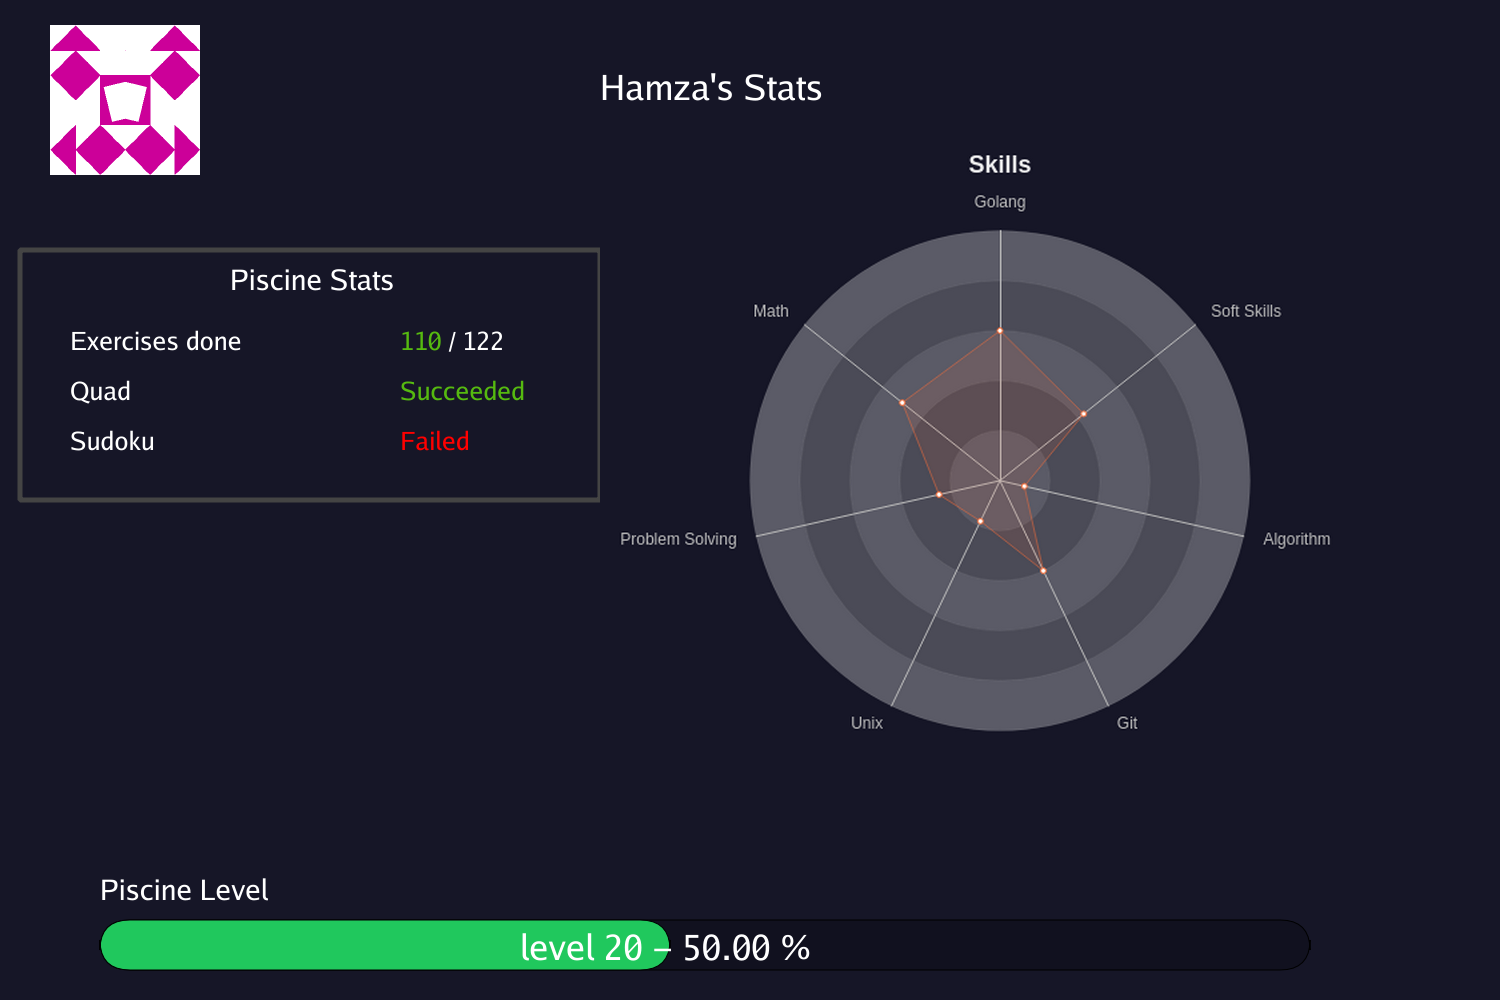
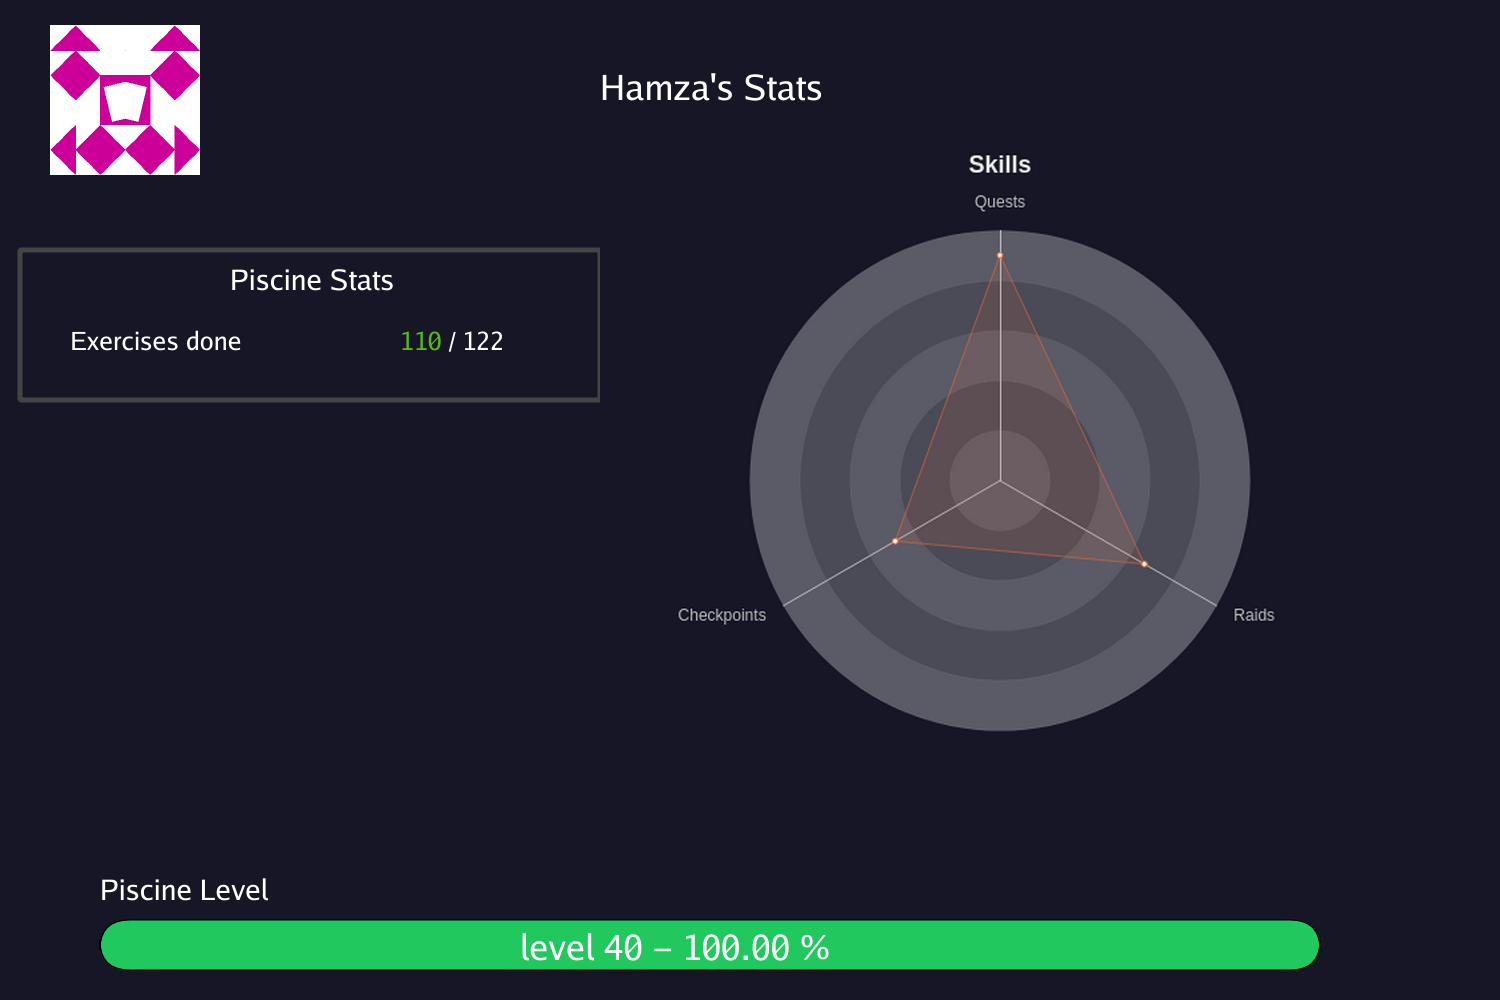
refactor: change the skills type in the piscine modele

diff --git a/builder.go b/builder.go
@@ -11,6 +11,7 @@ import (
 	"image/png"
 	"log"
 	"net/http"
+	"os"
 
 	"github.com/golang/freetype/truetype"
 	"github.com/llgcode/draw2d/draw2dimg"
@@ -145,7 +146,7 @@ func CardProfile(card CardData, radar string) string {
 	d.Src = image.NewUniform(color.RGBA{255, 255, 255, 255})
 	d.Face = face
 	d.DrawString("/ 122")
-	t := 0.5
+	t := 350.0
 	for i, raid := range card.Raids {
 		d.Src = image.NewUniform(color.RGBA{255, 255, 255, 255})
 		d.Dot = fixed.P(70, 400+(i*50))
@@ -208,16 +209,16 @@ func CardProfile(card CardData, radar string) string {
 	}
 	w.Flush()
 	// save image
-	// fi, err := os.Create("card.png")
-	// if err != nil {
-	// 	panic(err)
-	// }
-	// defer fi.Close()
+	fi, err := os.Create("card.png")
+	if err != nil {
+		panic(err)
+	}
+	defer fi.Close()
 
-	// _, err = fi.Write(buf.Bytes())
-	// if err != nil {
-	// 	panic(err)
-	// }
+	_, err = fi.Write(buf.Bytes())
+	if err != nil {
+		panic(err)
+	}
 
 	return base64.StdEncoding.EncodeToString(buf.Bytes())
 }

diff --git a/chart/radar.go b/chart/radar.go
@@ -25,13 +25,9 @@ func generateRadarItems(radarData [][]float32) []opts.RadarData {
 }
 
 var indicators = []*opts.Indicator{
-	{Name: "Golang", Max: 100},
-	{Name: "Math", Max: 100},
-	{Name: "Problem Solving", Max: 100},
-	{Name: "Unix", Max: 100},
-	{Name: "Git", Max: 50},
-	{Name: "Algorithm", Max: 100},
-	{Name: "Soft Skills", Max: 70},
+	{Name: "Quests", Max: 122},
+	{Name: "Checkpoints", Max: 31},
+	{Name: "Raids", Max: 3},
 }
 
 func radarStyle() *charts.Radar {
@@ -103,8 +99,6 @@ func (Radar) Generate(Data [][]float32) string {
 	var buf []byte
 	// get full of temporary of radar.html
 	path := f.Name()
-	// _, filename
-	// filename = filename[:len(filename)-len("chart/radar.go")]
 	log.Println("Tmporary ", path)
 	if err := chromedp.Run(ctx, chromedp.Navigate("file://"+path),
 		chromedp.CaptureScreenshot(&buf),

diff --git a/main/main.go b/main/main.go
@@ -10,21 +10,9 @@ func main() {
 			Name:              "Hamza",
 			NumberOfExercises: 110,
 			Avatar:            "https://learn.reboot01.com/git/avatars/9870e141f7a57c7d0b3e082d9cf97219?size=40",
-			Level:             20,
-			Raids: []ImageBuilder.Raid{
-				{
-					Name:   "Quad",
-					Status: "done",
-					Grade:  1,
-				},
-				{
-					Name:   "Sudoku",
-					Status: "done",
-					Grade:  0,
-				},
-			},
+			Level:             40,
 			Skills: [][]float32{
-				{60, 50, 25, 18, 20, 10, 30},
+				{110, 15, 2},
 			},
 		},
 	)

diff --git a/config.go b/config.go
@@ -10,6 +10,13 @@ type Raid struct {
 	Grade  float32
 }
 
+type Checkpoint struct {
+	Name     string
+	Status   string
+	Grade    float32
+	MaxLevel int
+}
+
 type CardData struct {
 	Name              string
 	NumberOfExercises int
